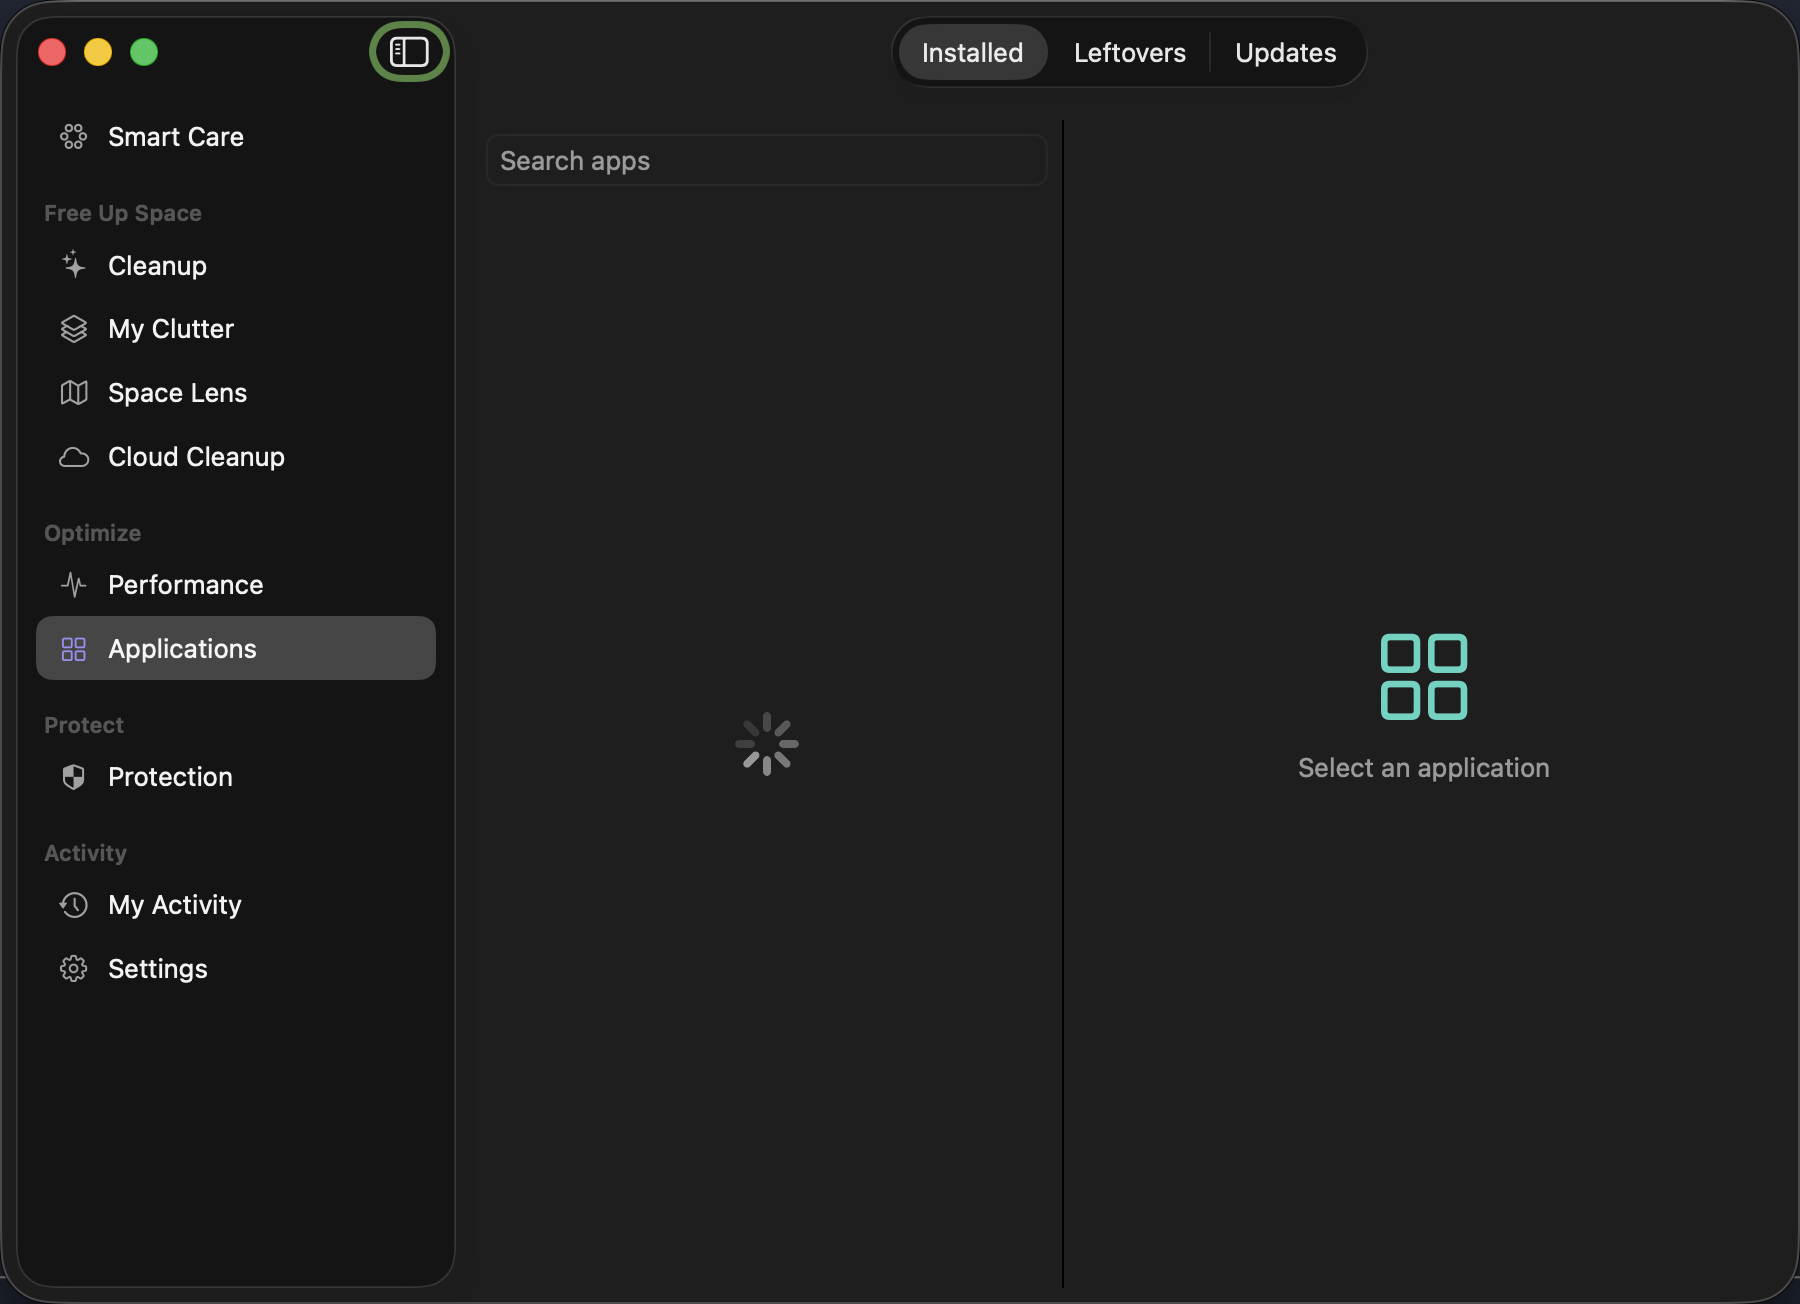
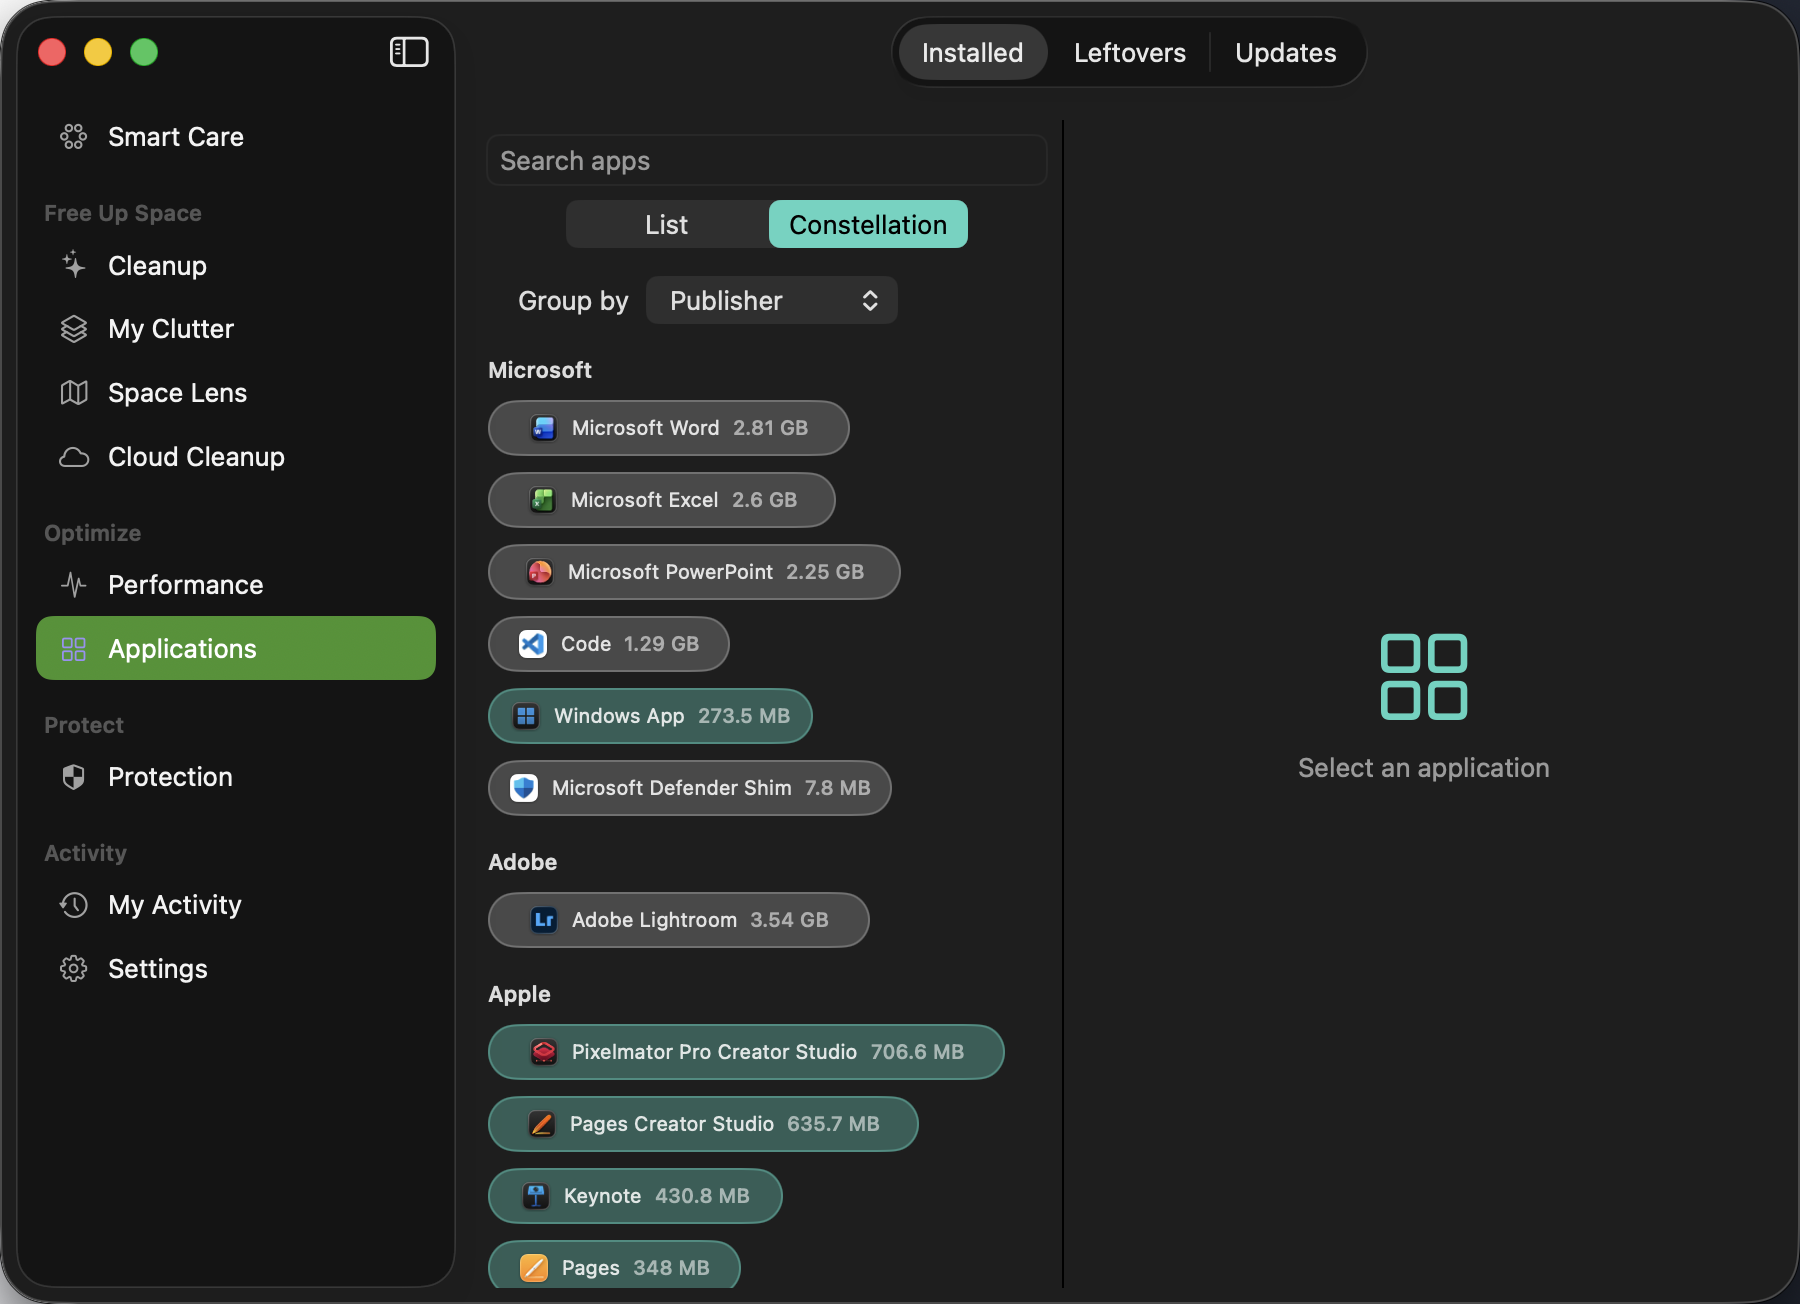
wip: in-progress Applications grouping (checkpoint before merge)

diff --git a/Sources/MacCareApp/ApplicationsView.swift b/Sources/MacCareApp/ApplicationsView.swift
@@ -95,6 +95,7 @@ struct ApplicationsView: View {
 
 struct InstalledAppsView: View {
     @State private var model = ApplicationsViewModel()
+    @State private var showConstellation = false
 
     var body: some View {
         HSplitView {
@@ -111,6 +112,31 @@ struct InstalledAppsView: View {
             TextField("Search apps", text: $model.searchText)
                 .textFieldStyle(.roundedBorder)
                 .padding(8)
+            if model.phase == .ready {
+                Picker("View", selection: $showConstellation) {
+                    Text("List").tag(false)
+                    Text("Constellation").tag(true)
+                }
+                .pickerStyle(.segmented)
+                .labelsHidden()
+                .padding(.horizontal, 8)
+                .padding(.bottom, 6)
+            }
+            if showConstellation, model.phase == .ready {
+                ScrollView {
+                    AppConstellationView(apps: model.filteredApps) { app in
+                        Task { await model.select(app) }
+                    }
+                    .padding(8)
+                }
+            } else {
+                installedListBody
+            }
+        }
+    }
+
+    private var installedListBody: some View {
+        Group {
             switch model.phase {
             case .loading:
                 ProgressView().frame(maxWidth: .infinity, maxHeight: .infinity)
@@ -164,6 +190,11 @@ struct InstalledAppsView: View {
                                 Text(mcFormatBytes(app.sizeBytes))
                             }
                             .font(.caption).foregroundStyle(.secondary)
+                            if app.isDataLocationAmbiguous {
+                                Label("Data location ambiguous — no bundle identifier to match against",
+                                      systemImage: "exclamationmark.triangle")
+                                    .font(.caption).foregroundStyle(MCTheme.warning)
+                            }
                         }
                     }
                     MCCard {
@@ -219,6 +250,114 @@ struct InstalledAppsView: View {
                 Text("Select an application").foregroundStyle(.secondary)
             }
             .frame(maxWidth: .infinity, maxHeight: .infinity)
+        }
+    }
+}
+
+/// Applications' visual layer: apps as capsules grouped into a constellation
+/// by publisher/size/update-state/last-used. Sits alongside the native list —
+/// never replaces it. Capsule width encodes real byte weight within its
+/// group; color encodes update state; a ring flags ambiguous data location.
+/// No timers, no motion at rest — layout only, so Reduce Motion has nothing
+/// to reduce.
+struct AppConstellationView: View {
+    let apps: [InstalledApp]
+    var onSelect: (InstalledApp) -> Void
+
+    @State private var mode: AppGroupMode = .publisher
+    @Environment(\.accessibilityReduceTransparency) private var reduceTransparency
+
+    private var groups: [(label: String, apps: [InstalledApp])] {
+        AppGrouping.grouped(apps, by: mode)
+    }
+
+    var body: some View {
+        VStack(alignment: .leading, spacing: MCSpacing.md) {
+            Picker("Group by", selection: $mode) {
+                ForEach(AppGroupMode.allCases, id: \.self) { Text($0.rawValue).tag($0) }
+            }
+            .pickerStyle(.menu)
+            .frame(maxWidth: 220)
+
+            ForEach(groups, id: \.label) { group in
+                VStack(alignment: .leading, spacing: MCSpacing.xs) {
+                    Text(group.label)
+                        .font(.subheadline.weight(.semibold))
+                        .accessibilityLabel(AppGrouping.accessibilityDescription(label: group.label, apps: group.apps))
+                    FlowLayout(spacing: MCSpacing.xs) {
+                        ForEach(group.apps) { app in
+                            capsule(for: app, groupMaxBytes: group.apps.map(\.sizeBytes).max() ?? 1)
+                        }
+                    }
+                }
+            }
+        }
+    }
+
+    private func capsule(for app: InstalledApp, groupMaxBytes: Int64) -> some View {
+        let weight = groupMaxBytes > 0 ? Double(app.sizeBytes) / Double(groupMaxBytes) : 0
+        let update = AppGrouping.updateState(for: app)
+        let tint = update == .manual ? MCColor.secondaryText : MCTheme.accent
+        return Button {
+            onSelect(app)
+        } label: {
+            HStack(spacing: 6) {
+                Image(nsImage: NSWorkspace.shared.icon(forFile: app.path.path))
+                    .resizable().frame(width: 16, height: 16)
+                Text(app.name).font(.caption).lineLimit(1)
+                Text(mcFormatBytes(app.sizeBytes)).font(.caption2).foregroundStyle(.secondary)
+            }
+            .padding(.horizontal, 10 + CGFloat(weight * 10))
+            .padding(.vertical, 6)
+            .background(
+                Capsule().fill(reduceTransparency ? tint.opacity(0.35) : tint.opacity(0.16))
+            )
+            .overlay(
+                Capsule().strokeBorder(
+                    app.isDataLocationAmbiguous ? MCTheme.warning : tint.opacity(0.4),
+                    lineWidth: app.isDataLocationAmbiguous ? 1.5 : 1)
+            )
+        }
+        .buttonStyle(.plain)
+        .accessibilityLabel(Self.accessibilityDescription(app: app, updateState: update))
+    }
+
+    /// VoiceOver label for one capsule — real fields only, no decoration.
+    nonisolated static func accessibilityDescription(app: InstalledApp, updateState: AppUpdateState) -> String {
+        var text = "\(app.name), version \(app.version ?? "unknown"), \(mcFormatBytes(app.sizeBytes)), \(updateState.rawValue) updates."
+        if app.isDataLocationAmbiguous { text += " Data location ambiguous." }
+        return text
+    }
+}
+
+/// Minimal wrapping flow layout for variable-width capsule chips.
+struct FlowLayout: Layout {
+    var spacing: CGFloat = 8
+
+    func sizeThatFits(proposal: ProposedViewSize, subviews: Subviews, cache: inout ()) -> CGSize {
+        let width = proposal.width ?? .infinity
+        var x: CGFloat = 0, y: CGFloat = 0, rowHeight: CGFloat = 0
+        for subview in subviews {
+            let size = subview.sizeThatFits(.unspecified)
+            if x + size.width > width, x > 0 {
+                x = 0; y += rowHeight + spacing; rowHeight = 0
+            }
+            x += size.width + spacing
+            rowHeight = max(rowHeight, size.height)
+        }
+        return CGSize(width: width.isFinite ? width : x, height: y + rowHeight)
+    }
+
+    func placeSubviews(in bounds: CGRect, proposal: ProposedViewSize, subviews: Subviews, cache: inout ()) {
+        var x = bounds.minX, y = bounds.minY, rowHeight: CGFloat = 0
+        for subview in subviews {
+            let size = subview.sizeThatFits(.unspecified)
+            if x + size.width > bounds.maxX, x > bounds.minX {
+                x = bounds.minX; y += rowHeight + spacing; rowHeight = 0
+            }
+            subview.place(at: CGPoint(x: x, y: y), proposal: .unspecified)
+            x += size.width + spacing
+            rowHeight = max(rowHeight, size.height)
         }
     }
 }

diff --git a/Sources/AppDiscovery/AppGrouping.swift b/Sources/AppDiscovery/AppGrouping.swift
@@ -1,0 +1,95 @@
+import Foundation
+
+/// Pure grouping logic for the Applications constellation view. No I/O, no
+/// SwiftUI — safe to call from any actor and to unit test directly.
+public enum AppGroupMode: String, CaseIterable, Sendable {
+    case publisher = "Publisher"
+    case size = "Size"
+    case updateState = "Update state"
+    case lastUsed = "Last used"
+}
+
+public enum AppUpdateState: String, Sendable {
+    case appStore = "App Store"
+    case sparkle = "Sparkle feed"
+    case manual = "In-app / manual"
+}
+
+public enum AppGrouping {
+    /// Classifies an app's update mechanism from its bundle contents. Mirrors
+    /// AppUpdatesView's detection (App Store receipt, then Sparkle feed URL).
+    public static func updateState(for app: InstalledApp) -> AppUpdateState {
+        let fm = FileManager.default
+        if fm.fileExists(atPath: app.path.appendingPathComponent("Contents/_MASReceipt").path) {
+            return .appStore
+        }
+        let plistURL = app.path.appendingPathComponent("Contents/Info.plist")
+        if let data = try? Data(contentsOf: plistURL),
+           let plist = try? PropertyListSerialization.propertyList(from: data, format: nil) as? [String: Any],
+           let feedString = plist["SUFeedURL"] as? String,
+           let feedURL = URL(string: feedString), feedURL.scheme == "https" {
+            return .sparkle
+        }
+        return .manual
+    }
+
+    private static let sizeBuckets: [(String, Int64)] = [
+        ("Under 100 MB", 100 * 1_000_000),
+        ("100 MB – 500 MB", 500 * 1_000_000),
+        ("500 MB – 1 GB", 1_000_000_000),
+        ("1 GB – 5 GB", 5_000_000_000),
+        ("Over 5 GB", Int64.max),
+    ]
+
+    public static func sizeBucket(for bytes: Int64) -> String {
+        for (label, ceiling) in sizeBuckets where bytes < ceiling { return label }
+        return sizeBuckets.last!.0
+    }
+
+    private static func lastUsedBucket(for date: Date?, now: Date) -> String {
+        guard let date else { return "Unknown" }
+        let days = now.timeIntervalSince(date) / 86400
+        switch days {
+        case ..<7: return "This week"
+        case ..<30: return "This month"
+        case ..<180: return "Last 6 months"
+        case ..<365: return "This year"
+        default: return "Over a year ago"
+        }
+    }
+
+    /// Groups apps into labeled buckets per `mode`, sorted by descending
+    /// combined size within a stable, mode-appropriate bucket order.
+    public static func grouped(_ apps: [InstalledApp], by mode: AppGroupMode, now: Date = Date()) -> [(label: String, apps: [InstalledApp])] {
+        let keyed: [(String, InstalledApp)] = apps.map { app in
+            switch mode {
+            case .publisher: return (app.publisher, app)
+            case .size: return (sizeBucket(for: app.sizeBytes), app)
+            case .updateState: return (updateState(for: app).rawValue, app)
+            case .lastUsed: return (lastUsedBucket(for: app.lastUsedDate, now: now), app)
+            }
+        }
+        var buckets: [String: [InstalledApp]] = [:]
+        for (label, app) in keyed { buckets[label, default: []].append(app) }
+        return buckets.map { (label: $0.key, apps: $0.value.sorted { $0.sizeBytes > $1.sizeBytes }) }
+            .sorted { lhs, rhs in
+                let l = lhs.apps.reduce(0) { $0 + $1.sizeBytes }
+                let r = rhs.apps.reduce(0) { $0 + $1.sizeBytes }
+                return l != r ? l > r : lhs.label < rhs.label
+            }
+    }
+
+    /// VoiceOver summary for a group bucket — real counts/bytes, never decorative.
+    public static func accessibilityDescription(label: String, apps: [InstalledApp]) -> String {
+        let totalBytes = apps.reduce(0) { $0 + $1.sizeBytes }
+        let formatter = ByteCountFormatter()
+        formatter.countStyle = .file
+        let sizeString = formatter.string(fromByteCount: totalBytes)
+        let ambiguousCount = apps.filter(\.isDataLocationAmbiguous).count
+        var text = "\(label): \(apps.count) app\(apps.count == 1 ? "" : "s"), \(sizeString) total."
+        if ambiguousCount > 0 {
+            text += " \(ambiguousCount) with ambiguous data location."
+        }
+        return text
+    }
+}

diff --git a/Sources/AppDiscovery/AppDiscovery.swift b/Sources/AppDiscovery/AppDiscovery.swift
@@ -9,9 +9,10 @@ public struct InstalledApp: Sendable, Identifiable {
     public let path: URL
     public let sizeBytes: Int64
     public let architectures: [String]
+    public let lastUsedDate: Date?
 
     public init(name: String, bundleIdentifier: String?, version: String?,
-                path: URL, sizeBytes: Int64, architectures: [String]) {
+                path: URL, sizeBytes: Int64, architectures: [String], lastUsedDate: Date? = nil) {
         self.id = path.path
         self.name = name
         self.bundleIdentifier = bundleIdentifier
@@ -19,7 +20,22 @@ public struct InstalledApp: Sendable, Identifiable {
         self.path = path
         self.sizeBytes = sizeBytes
         self.architectures = architectures
+        self.lastUsedDate = lastUsedDate
     }
+
+    /// Best-effort publisher label derived from the bundle identifier's second
+    /// component (e.g. "com.apple.Safari" → "Apple"). Real signal, not a guess
+    /// beyond what the identifier itself encodes.
+    public var publisher: String {
+        guard let bundleIdentifier, let part = bundleIdentifier.split(separator: ".").dropFirst().first,
+              !part.isEmpty else { return "Unknown" }
+        return part.prefix(1).uppercased() + part.dropFirst()
+    }
+
+    /// True when the app has no bundle identifier, meaning MacCare cannot do
+    /// exact-match lookup of its Application Support/Caches/Containers data —
+    /// its data location is genuinely ambiguous, not merely unlabeled.
+    public var isDataLocationAmbiguous: Bool { bundleIdentifier == nil }
 }
 
 /// A file or directory associated with an app (caches, prefs, containers…).
@@ -90,13 +106,15 @@ public struct AppDiscovery: Sendable {
             ?? (plist["CFBundleName"] as? String)
             ?? bundle.deletingPathExtension().lastPathComponent
         let version = plist["CFBundleShortVersionString"] as? String ?? plist["CFBundleVersion"] as? String
+        let lastUsed = try? bundle.resourceValues(forKeys: [.contentAccessDateKey]).contentAccessDate
         return InstalledApp(
             name: name,
             bundleIdentifier: plist["CFBundleIdentifier"] as? String,
             version: version,
             path: bundle,
             sizeBytes: Self.directorySize(bundle),
-            architectures: Self.architectures(of: bundle, plist: plist))
+            architectures: Self.architectures(of: bundle, plist: plist),
+            lastUsedDate: lastUsed ?? nil)
     }
 
     /// Finds files associated with a bundle identifier using exact-id matching only.

diff --git a/Tests/AppDiscoveryTests/AppGroupingTests.swift b/Tests/AppDiscoveryTests/AppGroupingTests.swift
@@ -1,0 +1,53 @@
+import Testing
+import Foundation
+@testable import AppDiscovery
+
+@Suite("AppGrouping")
+struct AppGroupingTests {
+    private func app(name: String, bundleID: String?, bytes: Int64, daysAgo: Double?) -> InstalledApp {
+        let lastUsed = daysAgo.map { Date().addingTimeInterval(-$0 * 86400) }
+        return InstalledApp(name: name, bundleIdentifier: bundleID, version: "1.0",
+                             path: URL(fileURLWithPath: "/Applications/\(name).app"),
+                             sizeBytes: bytes, architectures: ["arm64"], lastUsedDate: lastUsed)
+    }
+
+    @Test func publisherDerivedFromBundleID() {
+        let a = app(name: "Safari", bundleID: "com.apple.Safari", bytes: 1, daysAgo: nil)
+        #expect(a.publisher == "Apple")
+        let b = app(name: "Weird", bundleID: nil, bytes: 1, daysAgo: nil)
+        #expect(b.publisher == "Unknown")
+        #expect(b.isDataLocationAmbiguous)
+    }
+
+    @Test func sizeBucketing() {
+        #expect(AppGrouping.sizeBucket(for: 50_000_000) == "Under 100 MB")
+        #expect(AppGrouping.sizeBucket(for: 200_000_000) == "100 MB – 500 MB")
+        #expect(AppGrouping.sizeBucket(for: 6_000_000_000) == "Over 5 GB")
+    }
+
+    @Test func groupedByPublisherSortsByTotalSizeDescending() {
+        let apps = [
+            app(name: "Big", bundleID: "com.big.App", bytes: 1000, daysAgo: nil),
+            app(name: "Small", bundleID: "com.small.App", bytes: 10, daysAgo: nil),
+        ]
+        let groups = AppGrouping.grouped(apps, by: .publisher)
+        #expect(groups.first?.label == "Big")
+    }
+
+    @Test func groupedByLastUsedBucketsRecentSeparately() {
+        let apps = [
+            app(name: "Recent", bundleID: "com.a.App", bytes: 10, daysAgo: 1),
+            app(name: "Old", bundleID: "com.b.App", bytes: 10, daysAgo: 400),
+        ]
+        let groups = AppGrouping.grouped(apps, by: .lastUsed)
+        let labels = Set(groups.map(\.label))
+        #expect(labels.contains("This week"))
+        #expect(labels.contains("Over a year ago"))
+    }
+
+    @Test func accessibilityDescriptionFlagsAmbiguousItems() {
+        let apps = [app(name: "NoID", bundleID: nil, bytes: 1_000_000, daysAgo: nil)]
+        let desc = AppGrouping.accessibilityDescription(label: "Unknown", apps: apps)
+        #expect(desc.contains("ambiguous data location"))
+    }
+}
